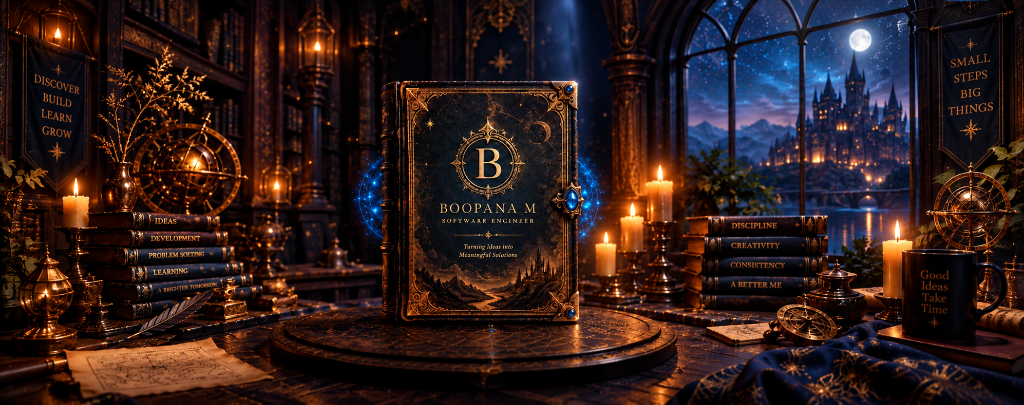
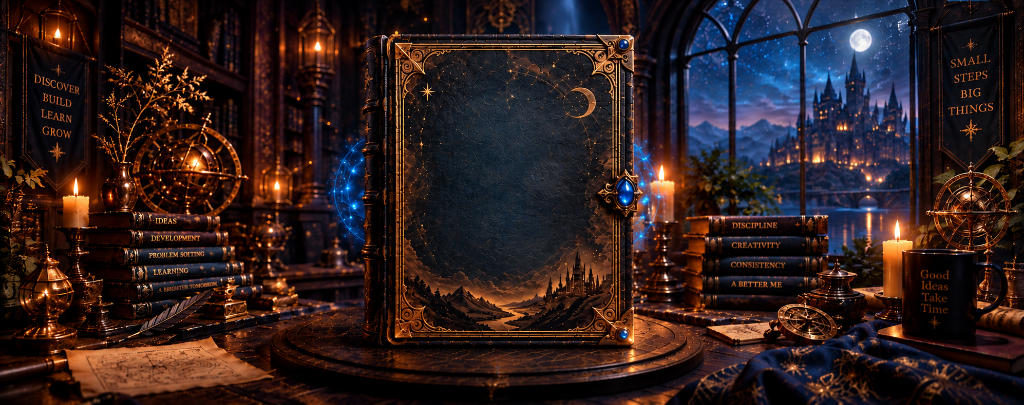
updated front page with the clean image and configured the typography overlay

diff --git a/src/components/Landing/landing.css b/src/components/Landing/landing.css
@@ -73,11 +73,11 @@
 
 .landing-front-cover-mount {
   position: absolute;
-  top: 49.8%;
-  left: 49.15%;
+  top: 49.6%;
+  left: 49.3%;
   transform: translate(-50%, -50%);
-  width: 22.4%;
-  height: 88.5%;
+  width: 21%;
+  height: 83%;
   container-type: size;
   pointer-events: none;
   z-index: 4;
@@ -97,37 +97,32 @@
   justify-content: flex-start;
 }
 
-/* Seamless Leather Texture Backdrop that masks blurry raster pixels underneath */
+/* Subtle ambient aura over the clean book leather */
 .front-cover-leather-mask {
   position: absolute;
-  top: 9%;
-  bottom: 14%;
-  left: 5%;
-  right: 5%;
-  border-radius: 8px;
-  background: radial-gradient(
-    ellipse at 50% 48%,
-    rgba(12, 16, 25, 0.94) 0%,
-    rgba(10, 14, 22, 0.91) 48%,
-    rgba(8, 12, 19, 0.65) 75%,
-    transparent 100%
-  );
+  inset: 0;
   pointer-events: none;
   z-index: 1;
+  background: radial-gradient(
+    ellipse at 50% 45%,
+    rgba(14, 18, 28, 0.15) 0%,
+    rgba(10, 14, 22, 0.05) 60%,
+    transparent 100%
+  );
 }
 
 /* Ultra-HD Vector Crest */
 .front-cover-crest-wrapper {
   position: relative;
   z-index: 2;
-  width: 33cqi;
+  width: 32cqi;
   aspect-ratio: 1 / 1;
-  margin-top: 10.5cqh;
-  margin-bottom: 3.2cqh;
+  margin-top: 8.5cqh;
+  margin-bottom: 2.2cqh;
   display: flex;
   align-items: center;
   justify-content: center;
-  filter: drop-shadow(0 6px 16px rgba(0, 0, 0, 0.8));
+  filter: drop-shadow(0 4px 14px rgba(0, 0, 0, 0.85));
   transition: transform 0.4s ease, filter 0.4s ease;
 }
 
